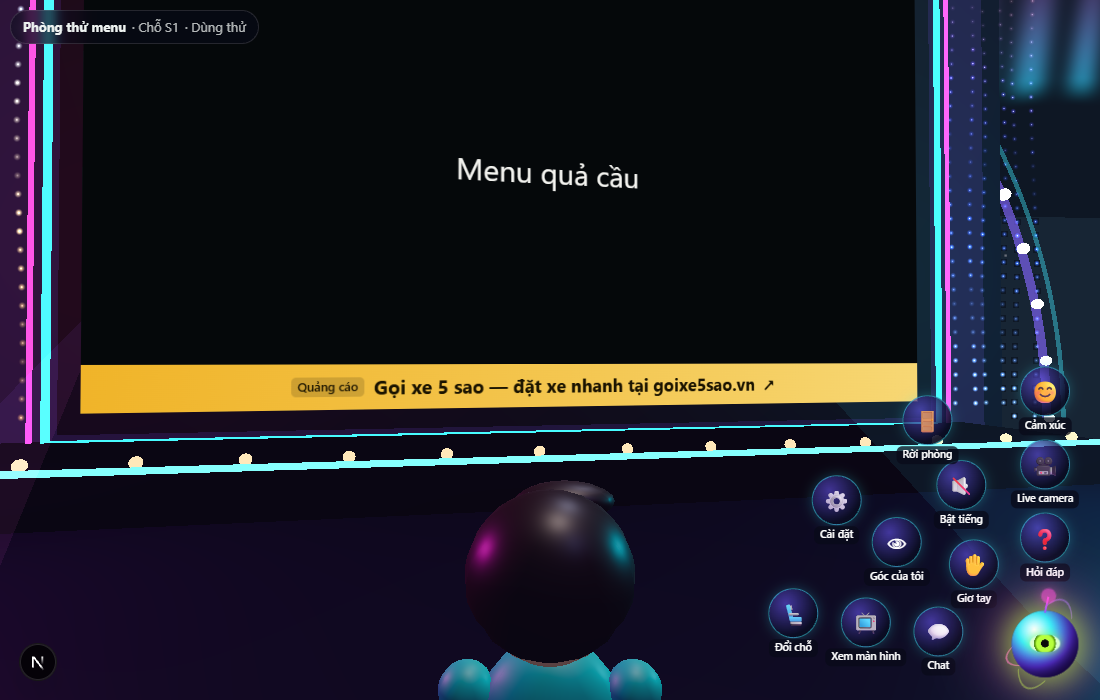
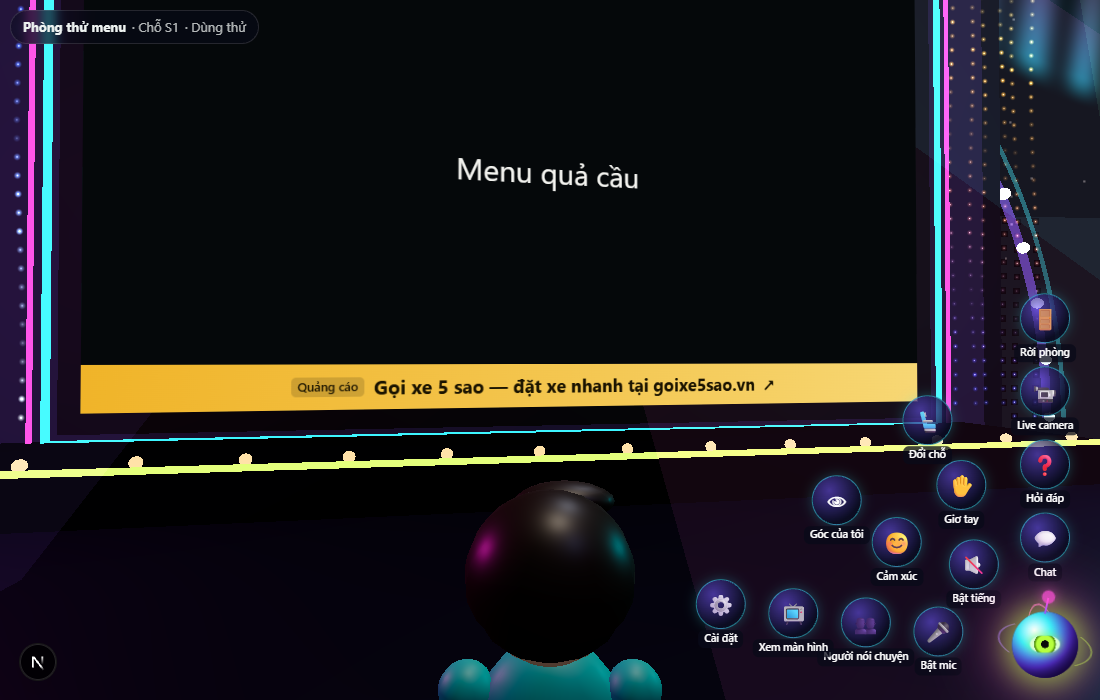
feat(orb): most used nearest the centre — mic / sound / chat in ring 1, talking with people in ring 2
- ring 1: (the owner's controls) mic, sound, chat; ring 2: "Người nói chuyện" (new: voices'
  volume, talk only with a group, block a person — its own panel, out of Settings), 😊, hand, Q&A;
  ring 3: screen, view, seat, live camera; outer: lights, settings, leave
- AlienOrb: reactAfter places 😊 next to a given item instead of always last

diff --git a/src/components/room/room-view.tsx b/src/components/room/room-view.tsx
@@ -183,6 +183,7 @@ export function RoomView({ roomId }: { roomId: string }) {
   const [fullView, setFullView] = useState(false);
   const [panel, setPanel] = useState<"owner" | "seats" | "qa" | "live" | null>(null);
   const [moreOpen, setMoreOpen] = useState(false);
+  const [voiceOpen, setVoiceOpen] = useState(false);
   const [chatOpen, setChatOpen] = useState(false);
   const [gfx, setGfx] = useState<"lite" | "full" | "ultra">("full");
   // Graphics levels only exist for the "Hành tinh tương lai" stage; a "Đơn sắc" room is one simple
@@ -634,6 +635,17 @@ export function RoomView({ roomId }: { roomId: string }) {
         <span style={{ flex: 1 }} />
         {isParticipant && openPoll && <ParticipantPoll poll={openPoll} myVote={s.myVotes[openPoll.id]} onVote={(o) => send({ t: "vote", pollId: openPoll.id, optionId: o })} isGuest={s.you.isGuest} />}
       </div>
+      {voiceOpen && s.voice && s.voice.mode !== "off" && (
+        <div className="hud-menu orb-settings voice-panel" role="dialog" aria-label="Người nói chuyện">
+          <div className="row between" style={{ alignItems: "center" }}>
+            <strong>👥 Người nói chuyện</strong>
+            <button className="hud-btn chat-close" onClick={() => setVoiceOpen(false)} aria-label="Đóng">
+              ✕
+            </button>
+          </div>
+          <VoiceSettings voice={voice} names={voiceName} store={store} selfId={s.you.userId} />
+        </div>
+      )}
       {moreOpen && (
         <div className="hud-menu orb-settings" role="dialog" aria-label="Cài đặt">
           <div className="row between" style={{ alignItems: "center" }}>
@@ -646,7 +658,6 @@ export function RoomView({ roomId }: { roomId: string }) {
             <span>🔊 Âm lượng</span>
             <input type="range" min={0} max={100} value={volume} onChange={(e) => setVolume(Number(e.target.value))} aria-label="Âm lượng" />
           </label>
-          {s.voice && s.voice.mode !== "off" && <VoiceSettings voice={voice} names={voiceName} store={store} selfId={s.you.userId} />}
           {glamRoom && (
           <div className="hud-menu-row" role="radiogroup" aria-label="Đồ hoạ">
             <span>✨ Đồ hoạ</span>
@@ -711,15 +722,12 @@ export function RoomView({ roomId }: { roomId: string }) {
         <AlienOrb
           badge={canModerate ? s.hands.length : 0}
           onReact={s.role !== "observer" ? (e) => send({ t: "react", e }) : undefined}
+          // Most used nearest the orb: ring 1 = talk / listen / chat (the owner's controls first),
+          // ring 2 = talking with people (who you hear, reactions, hand, Q&A), ring 3 = view & move,
+          // outer ring = lights, settings, leave.
+          reactAfter={s.voice && s.voice.mode !== "off" ? "voice" : "chat"}
           items={[
-            // the owner's controls first: nearest the orb, and highlighted
             ...(canModerate ? [{ id: "control", icon: "🎬", label: "Điều khiển", onClick: () => setPanel(panel === "owner" ? null : "owner"), active: panel === "owner", badge: s.hands.length, featured: true }] : []),
-            { id: "chat", icon: "💬", label: "Chat", onClick: () => setChatOpen(!chatOpen), active: chatOpen },
-            ...(isParticipant ? [{ id: "hand", icon: "✋", label: handUp ? "Hạ tay" : "Giơ tay", onClick: () => send({ t: "hand", up: !handUp }), active: handUp }] : []),
-            { id: "qa", icon: "❓", label: "Hỏi đáp", onClick: () => setPanel(panel === "qa" ? null : "qa"), active: panel === "qa", badge: openQuestions },
-            { id: "screen", icon: "📺", label: "Xem màn hình", onClick: openFull },
-            ...(isParticipant ? [{ id: "view", icon: behind ? "👁" : "🎥", label: behind ? "Góc của tôi" : "Xem từ sau", onClick: () => setBehind(!behind), active: !behind, stay: true }] : []),
-            { id: "sound", icon: muted ? "🔇" : "🔊", label: muted ? "Bật tiếng" : "Tắt tiếng", onClick: () => setMuted(!muted), active: !muted, stay: true },
             ...(voice.canTalk
               ? [
                   {
@@ -736,10 +744,19 @@ export function RoomView({ roomId }: { roomId: string }) {
                   },
                 ]
               : []),
-            ...(canModerate ? [{ id: "lights", icon: s.room.stageLights ? "💡" : "🌑", label: `${s.room.stageLights ? "Tắt" : "Bật"} đèn ${MAP_INFO[s.room.map].furnished ? "phòng" : "sân khấu"}`, onClick: () => send({ t: "stage_lights", on: !s.room!.stageLights }), active: s.room.stageLights, stay: true }] : []),
-            ...(s.live && (s.live.mode !== "off" || canModerate) && (isParticipant || canModerate) ? [{ id: "live", icon: onAirSelf ? "🔴" : "🎥", label: onAirSelf ? "Đang live" : "Live camera", onClick: () => setPanel(panel === "live" ? null : "live"), active: panel === "live" || onAirSelf }] : []),
+            { id: "sound", icon: muted ? "🔇" : "🔊", label: muted ? "Bật tiếng" : "Tắt tiếng", onClick: () => setMuted(!muted), active: !muted, stay: true },
+            { id: "chat", icon: "💬", label: "Chat", onClick: () => setChatOpen(!chatOpen), active: chatOpen },
+            ...(s.voice && s.voice.mode !== "off"
+              ? [{ id: "voice", icon: "👥", label: voice.group.size ? `Nói riêng (${voice.group.size})` : "Người nói chuyện", onClick: () => (setVoiceOpen(!voiceOpen), setMoreOpen(false)), active: voiceOpen || voice.group.size > 0 }]
+              : []),
+            ...(isParticipant ? [{ id: "hand", icon: "✋", label: handUp ? "Hạ tay" : "Giơ tay", onClick: () => send({ t: "hand", up: !handUp }), active: handUp }] : []),
+            { id: "qa", icon: "❓", label: "Hỏi đáp", onClick: () => setPanel(panel === "qa" ? null : "qa"), active: panel === "qa", badge: openQuestions },
+            { id: "screen", icon: "📺", label: "Xem màn hình", onClick: openFull },
+            ...(isParticipant ? [{ id: "view", icon: behind ? "👁" : "🎥", label: behind ? "Góc của tôi" : "Xem từ sau", onClick: () => setBehind(!behind), active: !behind, stay: true }] : []),
             ...(isParticipant && s.room.entryMode === "auto_assign" && me?.status === "seated" ? [{ id: "seats", icon: "💺", label: "Đổi chỗ", onClick: () => setPanel(panel === "seats" ? null : "seats"), active: panel === "seats" }] : []),
-            { id: "settings", icon: "⚙", label: "Cài đặt", onClick: () => setMoreOpen(!moreOpen), active: moreOpen },
+            ...(s.live && (s.live.mode !== "off" || canModerate) && (isParticipant || canModerate) ? [{ id: "live", icon: onAirSelf ? "🔴" : "📹", label: onAirSelf ? "Đang live" : "Live camera", onClick: () => setPanel(panel === "live" ? null : "live"), active: panel === "live" || onAirSelf }] : []),
+            ...(canModerate ? [{ id: "lights", icon: s.room.stageLights ? "💡" : "🌑", label: `${s.room.stageLights ? "Tắt" : "Bật"} đèn ${MAP_INFO[s.room.map].furnished ? "phòng" : "sân khấu"}`, onClick: () => send({ t: "stage_lights", on: !s.room!.stageLights }), active: s.room.stageLights, stay: true }] : []),
+            { id: "settings", icon: "⚙", label: "Cài đặt", onClick: () => (setMoreOpen(!moreOpen), setVoiceOpen(false)), active: moreOpen },
             {
               id: "leave",
               icon: "🚪",

diff --git a/src/components/room/orb-menu.tsx b/src/components/room/orb-menu.tsx
@@ -40,7 +40,7 @@ function readPos(): Pos | null {
     return null;
   }
 }
-export function AlienOrb({ items, onReact, badge }: { items: OrbItem[]; onReact?: (e: Reaction) => void; badge?: number }) {
+export function AlienOrb({ items, onReact, badge, reactAfter }: { items: OrbItem[]; onReact?: (e: Reaction) => void; badge?: number; /** 😊 sits right after this item (default: last) */ reactAfter?: string }) {
   const [open, setOpen] = useState(false);
   const [reacts, setReacts] = useState(false);
   const root = useRef<HTMLDivElement>(null);
@@ -118,7 +118,8 @@ export function AlienOrb({ items, onReact, badge }: { items: OrbItem[]; onReact?
   // Arcs in the up-left quarter around the orb (bottom-right corner): 3, 4 and 4 places (+ a 4th arc when needed); the
   // reaction toggle takes the last place of the last arc, reactions get an arc of their own.
   // A 4th arc only when there are more functions (owner attending as a participant).
-  const all = onReact ? [...items, null] : items;
+  const at = reactAfter ? items.findIndex((it) => it.id === reactAfter) + 1 : 0;
+  const all = onReact ? (at > 0 ? [...items.slice(0, at), null, ...items.slice(at)] : [...items, null]) : items;
   // Arcs open toward the middle of the screen: mirrored when the orb sits on the left / top half.
   let style: React.CSSProperties | undefined;
   let fx = 1;
